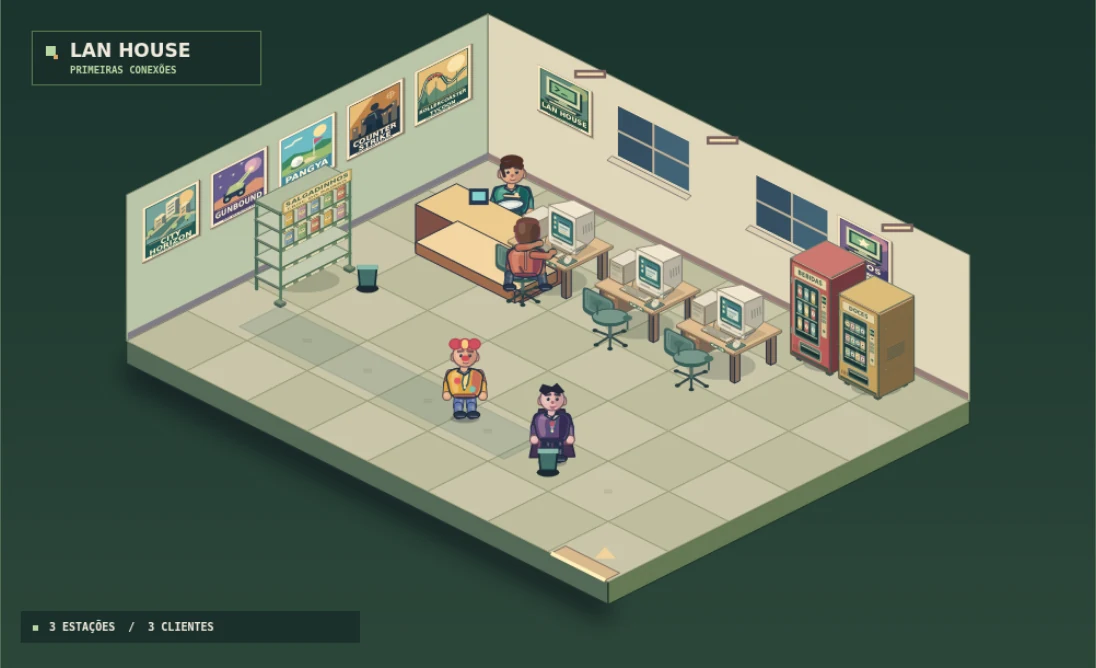
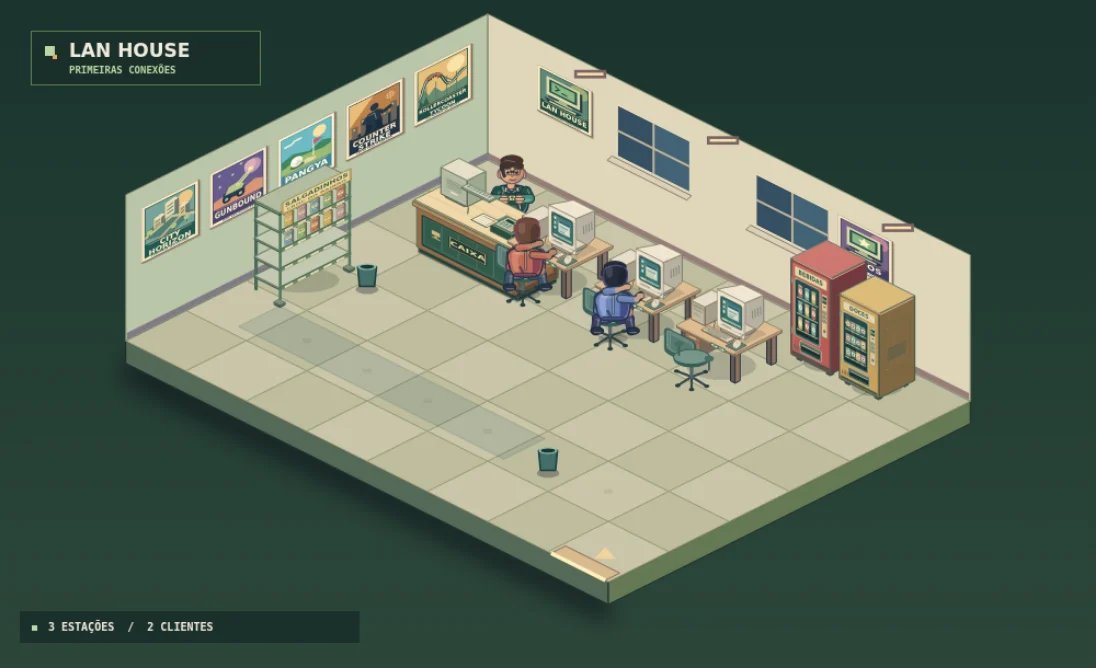
fix(lhs): prevent mixed cached game modules and ship current counter previews
Version the full game module graph, styles and salon image together. Restore the standalone menu fallback asset and check CSS references. Refresh the lightweight preview from the approved counter/owner renderer and gate Pages synchronization on desktop/mobile game startup. Repair deterministic circulation and station-capacity fixtures plus optional empty mailboxes in the concurrent Y2K test.

Validation: full existing suite 327 passed, 9 optional audits skipped; 32 focused tests passed after latest main integration. Real desktop/mobile startup, stale-module rejection, missing-image rejection, hardware UI and 32 counter cache cases passed.

diff --git a/games/lan_house_simulator/style.css b/games/lan_house_simulator/style.css
@@ -599,4 +599,4 @@ progress{accent-color:#63804b;max-width:100%;grid-column:1/-1;width:100%;height:
 @media(max-width:700px){#pc-maintenance .pc-operation{grid-template-columns:repeat(2,minmax(0,1fr))}#pc-maintenance .pc-operation>span{grid-column:1/-1}#pc-maintenance .pc-power-toggle{min-width:0}}
 
 /* Backup visual leve: se o Canvas do menu falhar, não mostrar um CRT vazio. */
-#menu-scene{background-image:url("../assets/sala.webp");background-size:cover;background-position:center}
+#menu-scene{background-image:url("./assets/ui/salon-preview.webp");background-size:cover;background-position:center}

diff --git a/games/lan_house_simulator/website/README.md b/games/lan_house_simulator/website/README.md
@@ -45,3 +45,12 @@ São textos iniciais pesquisados, não certificação jurídica. Contas, nuvem, 
 ## Limites da verificação
 
 O verificador confere todas as páginas, referências locais, âncoras, IDs, módulos, metadados, hashes de CSP e carregamento sob demanda. Os testes verificam exclusão seletiva de dados e validação de configuração. A revisão visual no navegador depende da disponibilidade do controle de navegador autorizado por Sites; não substituir esse caminho por um navegador improvisado. Conferência em aparelho físico e validação da hospedagem pública ficam para o lançamento.
+
+
+## Atualização da arte e prevenção de versões misturadas
+
+Depois de alterar a arte de balcão, administrador ou salão: `npm run build`, instalar Chromium de Playwright e executar `node scripts/capture_site_salon.mjs`. O quadro WebP gerado usa o mesmo renderizador do jogo e continua abaixo de 100 KB; depois executar `npm run build:site` e `npm run check:site`.
+
+O build do site atribui a mesma revisão a main.js e a todos os imports estáticos/dinâmicos de módulos do jogo, ao CSS e à imagem do salão. Isso impede misturar arquivos antigos em cache com código novo. A imagem de reserva do menu é copiada também para o build isolado, em `assets/ui/salon-preview.webp`.
+
+`verify_live_site_preview.mjs` simula módulos antigos sem revisão recusando essas URLs, verifica carregamento e desenho da partida em desktop/celular, e deve passar antes da sincronização para o repositório ligado ao Pages.
